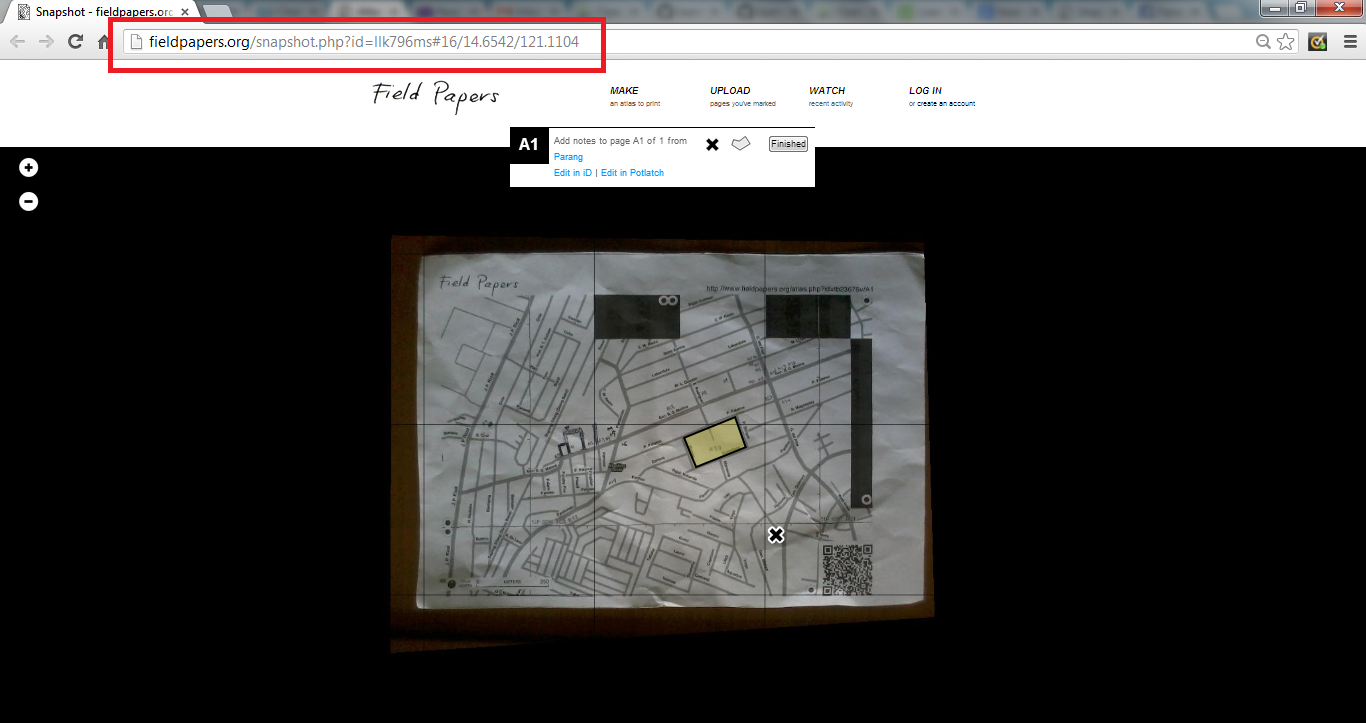
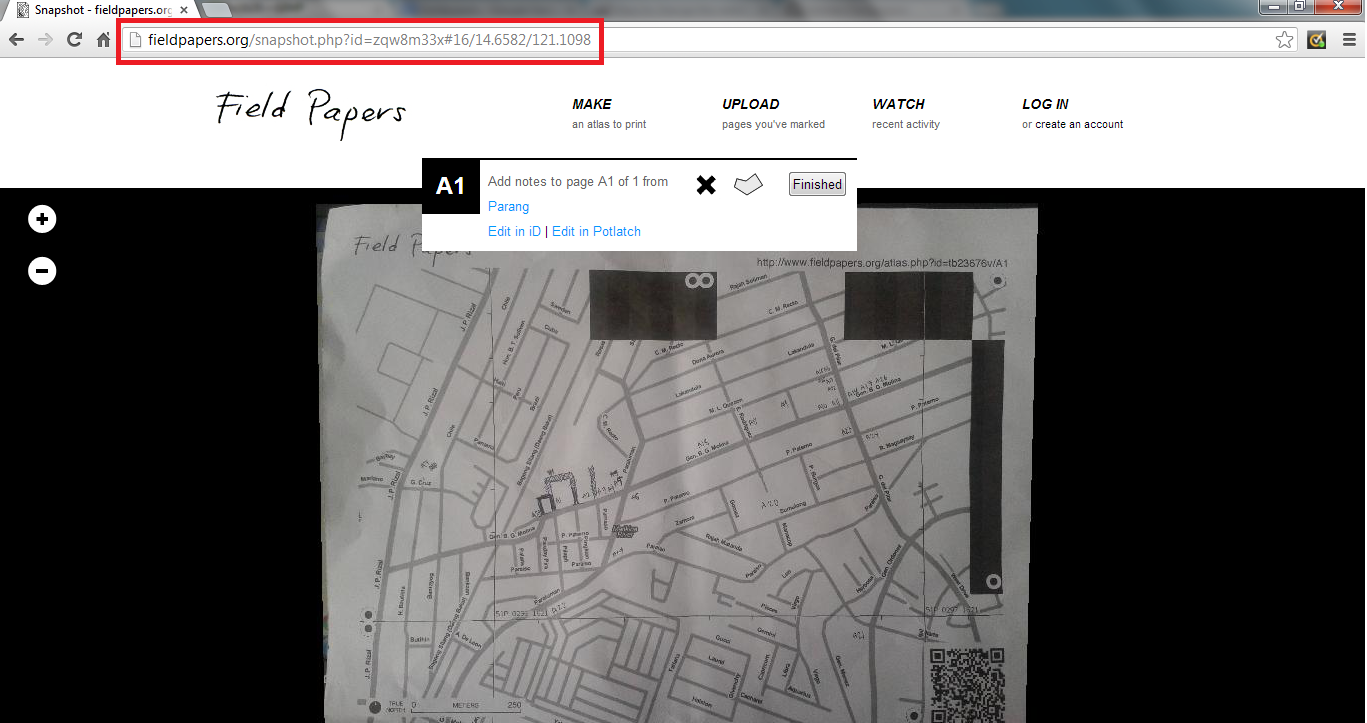
new screenshots

diff --git a/_posts/en/lgu1/0200-12-24-papers.md b/_posts/en/lgu1/0200-12-24-papers.md
@@ -89,6 +89,9 @@ Create and Print
     East or West, and your scroll wheel to zoom in and out of the map.
     Left-clicking on the + and – buttons in the upper left corner will
     also zoom in and out.
+	
+	![zoominout][]
+	
 -   Just above the map are some additional options. The first option is
     to select the size of the tile you want to use for printing the
 	fieldpaper.
@@ -111,6 +114,8 @@ Create and Print
     zoom level 0. When you zoom in as far as you can go you are at zoom
     level 18. The current zoom level is shown just above the map.
     Usually zoom level 15, 16, or 17 is good for making Field Papers.
+	
+	![zoom][]
 	
 -   Let's make the print now! If you have found the area you are
     interested in mapping and have selected the options that make your
@@ -137,6 +142,8 @@ Create and Print
 
 -   When your print is ready, click "Download map PDF for print". The
     Field Paper should begin downloading.
+	
+	![downloadpdf][]
 	
 -   When the download is finish, open the PDF file. Connect your
     computer to a printer and print the page. If everything goes well,
@@ -177,26 +184,19 @@ Scan and Upload
     before.
 -   Click on the "Upload" tab.
 
-    ![paper upload 1][]
-
--   Click "Browse..." and navigate to the file where you
+	![upload][]
+	
+-   Click "Choose File" and navigate to the file where you
     scanned/photographed your Field Paper.
+	
+	![paper upload 1][]
+	
 -   Click "Upload"
 -   It may take a few minutes for your paper to upload, depending on the
-    speed of your internet connection. When the upload finishes, you
-    will see a new page with a couple questions about your scan.
+    speed of your internet connection. When the upload finishes, you will
+	see something like this:
 
     ![paper upload 2][]
-
--   Next to the question, "Do you plan to edit this yourself?" select
-    "No". This will make your paper public, so that other mappers can
-    see it too.
--   In the empty box at the bottom, describe what you mapped. This might
-    include the location and the types of objects that you added.
--   Click "Save." Your Field Paper will begin to process. This may
-    take 20 minutes or more. If you made your paper public by selecting
-    "No" on the previous page, you can close your internet browser and
-    return to it later when it has finished processing.
 
 Open in JOSM
 ------------
@@ -216,7 +216,7 @@ Open in JOSM
     Paper you have scanned. In the URL bar at the top of your internet
     browser, select the text and press CTRL+C on your keyboard to copy.
     The text should look similar to this:
-    [http://fieldpapers.org/snapshot.php?id=llk796ms#16/14.6542/121.1104](http://fieldpapers.org/snapshot.php?id=llk796ms#16/14.6542/121.1104)
+    [http://fieldpapers.org/snapshot.php?id=zqw8m33x#16/14.6582/121.1098](http://fieldpapers.org/snapshot.php?id=zqw8m33x#16/14.6582/121.1098)
 	
 	![fieldpaperid][]
 	
@@ -266,9 +266,9 @@ complete process of editing the map.
 [paper QR code]: {{site.baseurl}}/images/paper_qrc_en.png
 [paper create map]: {{site.baseurl}}/images/paper_create_map_en.png
 [paper prepare print]: {{site.baseurl}}/images/preparingyouratlas.png
-[paper exmaple 2]: {{site.baseurl}}/images/fieldp.png
+[paper exmaple 2]: {{site.baseurl}}/images/1234.png
 [paper upload 1]: {{site.baseurl}}/images/uploadfp.png
-[paper upload 2]: {{site.baseurl}}/images/paper_upload2_en.png
+[paper upload 2]: {{site.baseurl}}/images/asd.png
 [paper scanned]: {{site.baseurl}}/images/watchsnapshot.png
 [walking paper 1]: {{site.baseurl}}/images/Homepage.png
 [atlas]: {{site.baseurl}}/images/makeyourselfanatlas.png
@@ -283,3 +283,7 @@ complete process of editing the map.
 [fsnapshot]: {{sitebaseurl}}/images/fsnapshot.png
 [fieldpaperid]: {{sitebaseurl}}/images/fieldpaperid.png
 [fieldpaperjosm]: {{sitebaseurl}}/images/fieldpaperjosm.png
+[zoominout]: {{sitebaseurl}}/images/zoominout.png
+[downloadpdf]: {{sitebaseurl}}/images/downloadpdf.png
+[zoom]: {{sitebaseurl}}/images/zoom.png
+[upload]: {{sitebaseurl}}/images/upload.png
